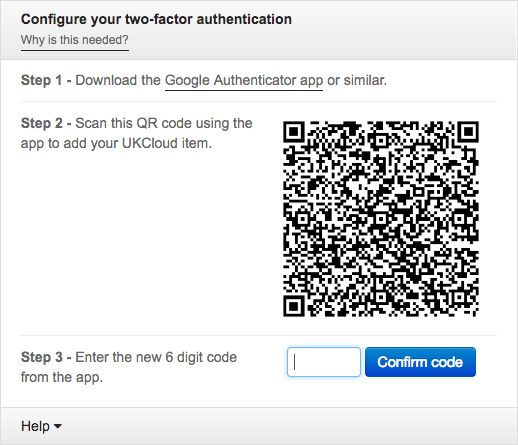
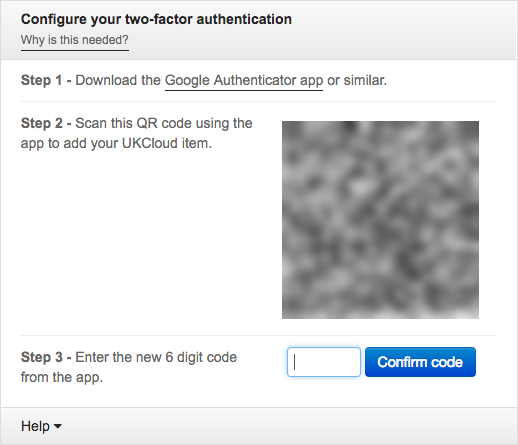
Fixing image in 2FA article, plus a couple of typos

Changed region(s): [[0.5251, 0.2629, 0.9266, 0.7303]]

diff --git a/articles/portal/ptl-how-setup-2fa.md b/articles/portal/ptl-how-setup-2fa.md
@@ -18,11 +18,11 @@ toc_mdlink: ptl-how-setup-2fa.md
 
 ## Overview
 
-To provide additional security, you may want to set up two-factor authentication (2FA) in the UKCloud Portal. Two-factor authentication in the Portal requires that users enter a randomly generated 2FA code, as well as their user name and and password, when logging in to the Portal.
+To provide additional security, you may want to set up two-factor authentication (2FA) in the UKCloud Portal. 2FA in the Portal requires that users enter a randomly generated code, as well as their user name and and password, when logging in to the Portal.
 
 ![Two-Factor Authentication dialog box in the UKCloud Portal](images/ptl-2fa.png)
 
-To set up 2FA, a Portal administrator must first enable 2FA for the Portal account. After enabling 2FA for the account, the next time a user attempts to log in, they will be prompted to set up 2FA for their user account by registering their Portal account with a 2FA authenticator app, such as Google Authenticator.
+To set up 2FA, a Portal administrator must first enable 2FA for the Portal account. After enabling 2FA for the account, the next time a user attempts to log in, they will be prompted to set up 2FA for their user account by registering their Portal account with an authenticator app, such as Google Authenticator.
 
 ## Enabling 2FA in the UKCloud Portal (administrators)
 
@@ -50,11 +50,11 @@ To enable 2FA:
 
 When you first log in to a Portal account that has 2FA enabled, you'll be prompted to set up 2FA:
 
-1. Log in to the UKCloud Portal.
+1. Log in to the UKCloud Portal, providing your user name and password as usual and memorable word, if required.
 
     For more detailed instructions, see the [*Getting Started Guide for the UKCloud Portal*](ptl-gs.md).
 
-2. Per the instructions in the *Configure your two-factor authentication* dialog box, install a authenticator app and scan the provided QR code.
+2. Per the instructions in the *Configure your two-factor authentication* dialog box, install an authenticator app and scan the provided QR code.
 
     ![Configure your two-factor authentication dialog box](images/ptl-2fa-setup.png)
 
